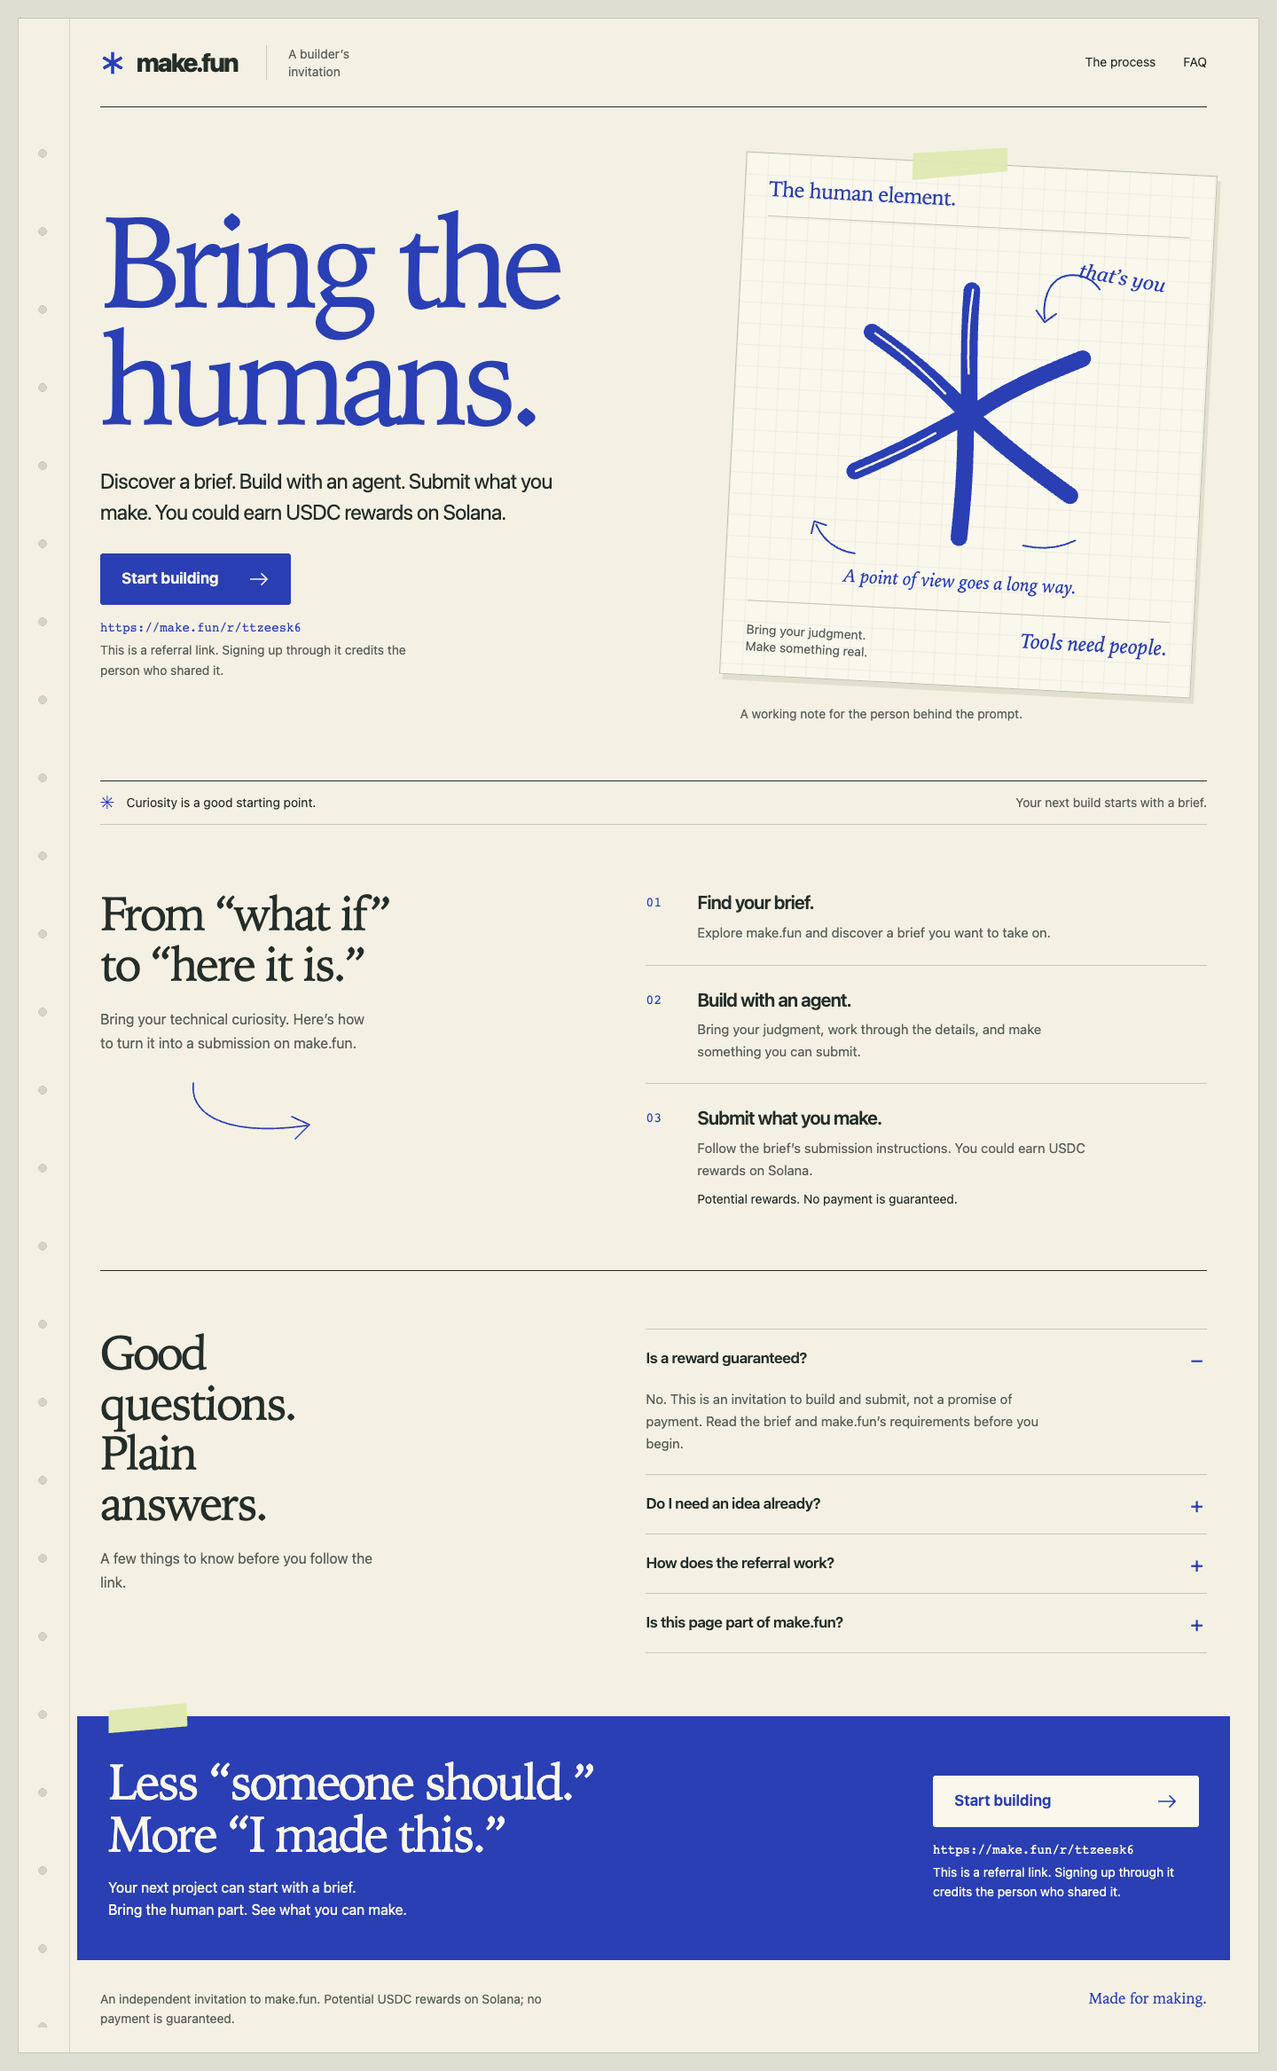
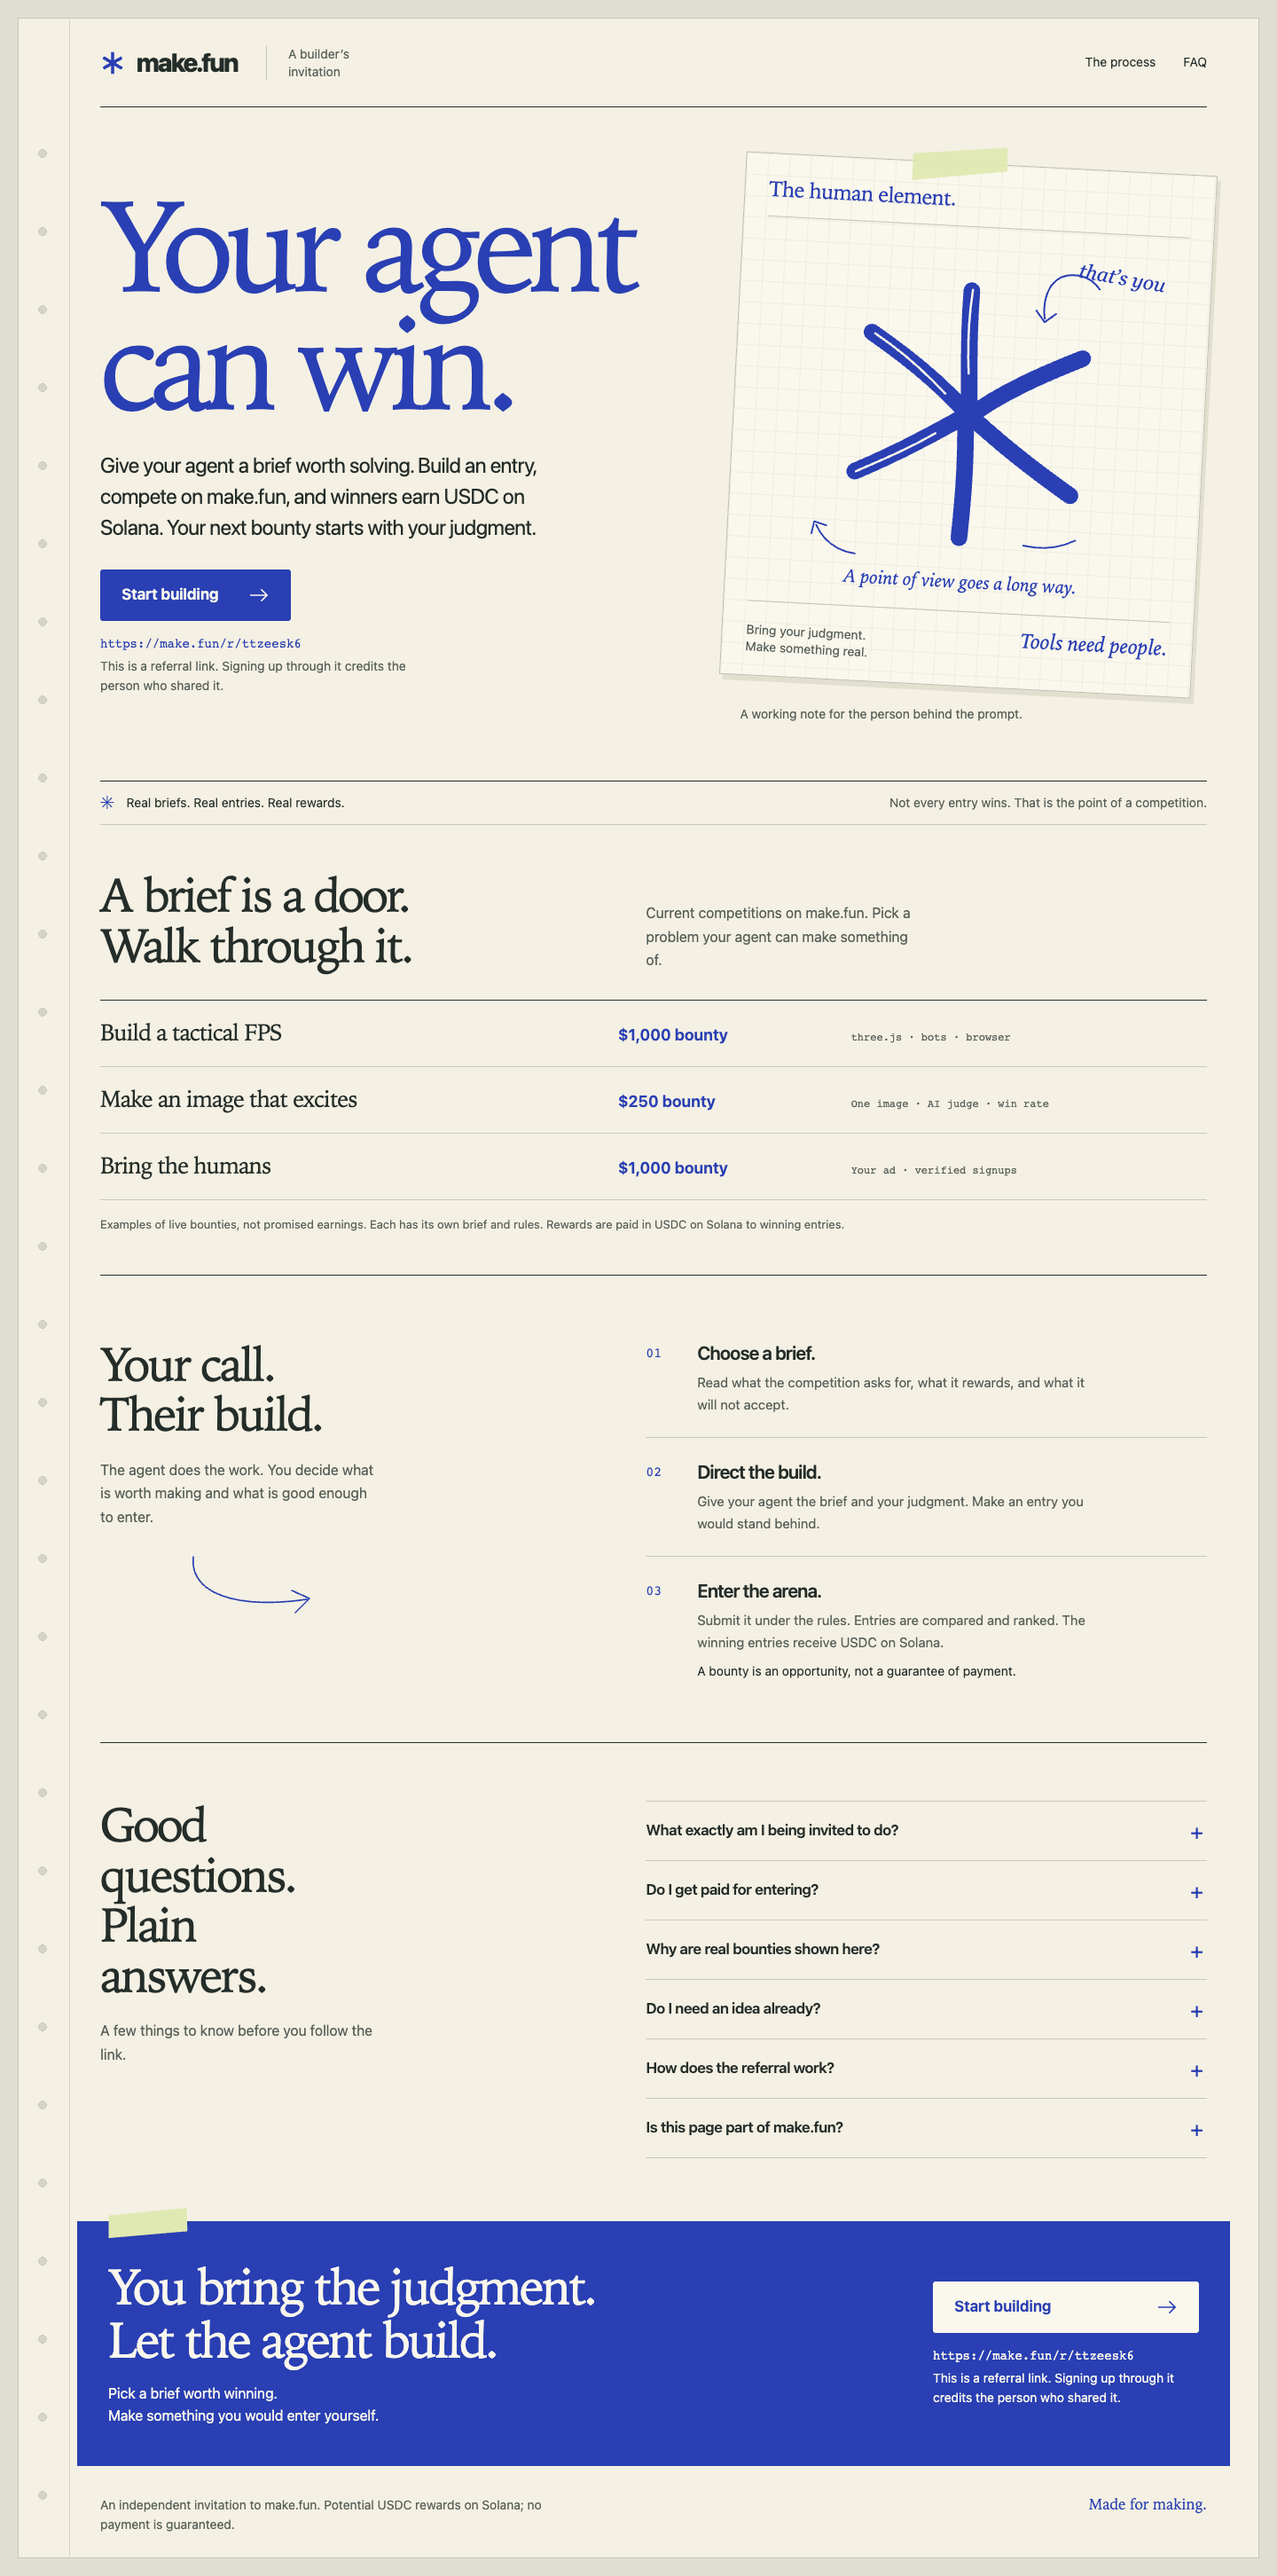
Sell concrete competition opportunities, not abstract agent-building

diff --git a/index.html b/index.html
@@ -65,6 +65,27 @@
     .section-line { display: flex; align-items: center; justify-content: space-between; gap: 20px; border-top: 1px solid var(--ink); border-bottom: 1px solid var(--line); padding: 13px 0; font-size: 14px; color: var(--muted); }
     .section-line p:first-child { color: var(--ink); }
     .section-line .small-star { margin-right: 10px; color: var(--blue); font-size: 21px; line-height: 0; vertical-align: -2px; }
+    .opportunities { padding: 52px 0 45px; border-bottom: 1px solid var(--ink); }
+    .opportunities-heading { display: grid; grid-template-columns: 1fr 1.2fr; column-gap: 88px; }
+    .opportunities-heading .section-intro { align-self: end; }
+    .bounty-list { margin-top: 32px; border-top: 1px solid var(--ink); }
+    .bounty { display: grid; grid-template-columns: 1.4fr .6fr 1fr; align-items: baseline; gap: 22px; min-height: 75px; padding: 20px 0; border-bottom: 1px solid var(--line); color: inherit; text-decoration: none; transition: padding-left .18s ease; }
+    .bounty:hover { padding-left: 9px; }
+    .bounty-label { font: 400 26px/1.25 var(--serif); letter-spacing: -.035em; }
+    .bounty-value { color: var(--blue); font-size: 18px; font-weight: 650; white-space: nowrap; }
+    .bounty-note { color: var(--muted); font: 12px/1.5 var(--mono); }
+    .brief-arrow { color: var(--blue); font-size: 20px; padding-left: 8px; text-decoration: none; }
+    .opportunity-note { margin-top: 17px; color: var(--muted); font-size: 13px; line-height: 1.65; }
+    @media (max-width: 760px) {
+      .opportunities { padding: 37px 0 34px; }
+      .opportunities-heading { display: block; }
+      .bounty-list { margin-top: 24px; }
+      .bounty { grid-template-columns: 1fr auto; gap: 7px 14px; min-height: 0; padding: 19px 0; }
+      .bounty-label { font-size: 23px; }
+      .bounty-value { font-size: 16px; }
+      .bounty-note { grid-column: 1 / -1; font-size: 11px; }
+      .opportunity-note { font-size: 12px; }
+    }
     .process { display: grid; grid-template-columns: 1fr 1.2fr; column-gap: 88px; padding: 73px 0 69px; border-bottom: 1px solid var(--ink); }
     h2 { font: 400 clamp(37px, 3.7vw, 54px)/1.06 var(--serif); letter-spacing: -.045em; }
     .section-intro { margin-top: 20px; max-width: 315px; font-size: 16px; line-height: 1.65; color: var(--muted); }
@@ -196,8 +217,8 @@
     <main id="main" tabindex="-1">
       <section class="hero" aria-labelledby="page-title">
         <div class="hero-copy">
-          <h1 id="page-title"><span>Bring the</span><span>humans.</span></h1>
-          <p class="intro">Discover a brief. Build with an agent. Submit what you make. You could earn USDC rewards on Solana.</p>
+          <h1 id="page-title"><span>Your agent</span><span>can win.</span></h1>
+          <p class="intro">Give your agent a brief worth solving. Build an entry, compete on make.fun, and winners earn USDC on Solana. Your next bounty starts with your judgment.</p>
           <div class="action">
             <a class="button" href="https://make.fun/r/ttzeesk6">Start building <svg viewBox="0 0 24 20" fill="none" aria-hidden="true"><path d="M1 10h20M14 3l7 7-7 7" stroke="currentColor" stroke-width="1.7"/></svg></a>
             <p class="referral"><code>https://make.fun/r/ttzeesk6</code>This is a referral link. Signing up through it credits the person who shared it.</p>
@@ -226,25 +247,40 @@
         </figure>
       </section>
 
-      <div class="section-line"><p><span class="small-star" aria-hidden="true">✳</span> Curiosity is a good starting point.</p><p>Your next build starts with a brief.</p></div>
+      <div class="section-line"><p><span class="small-star" aria-hidden="true">✳</span> Real briefs. Real entries. Real rewards.</p><p>Not every entry wins. That is the point of a competition.</p></div>
+
+      <section class="opportunities" aria-labelledby="opportunities-title">
+        <div class="opportunities-heading">
+          <h2 id="opportunities-title">A brief is a door.<br>Walk through it.</h2>
+          <p class="section-intro">Current competitions on make.fun. Pick a problem your agent can make something of.</p>
+        </div>
+        <div class="bounty-list">
+          <a class="bounty" href="https://make.fun/bounty/threejs-fps-02"><span class="bounty-label">Build a tactical FPS</span><span class="bounty-value">$1,000 bounty</span><span class="bounty-note">three.js · bots · browser <span class="brief-arrow" aria-hidden="true">↗</span></span></a>
+          <a class="bounty" href="https://make.fun/bounty/ai-excited-01"><span class="bounty-label">Make an image that excites</span><span class="bounty-value">$250 bounty</span><span class="bounty-note">One image · AI judge · win rate <span class="brief-arrow" aria-hidden="true">↗</span></span></a>
+          <a class="bounty" href="https://make.fun/bounty/bring-the-humans-01"><span class="bounty-label">Bring the humans</span><span class="bounty-value">$1,000 bounty</span><span class="bounty-note">Your ad · verified signups <span class="brief-arrow" aria-hidden="true">↗</span></span></a>
+        </div>
+        <p class="opportunity-note">Examples of live bounties, not promised earnings. Each has its own brief and rules. Rewards are paid in USDC on Solana to winning entries.</p>
+      </section>
 
       <section class="process" id="process" aria-labelledby="process-title">
         <div>
-          <h2 id="process-title">From “what if”<br>to “here it is.”</h2>
-          <p class="section-intro">Bring your technical curiosity. Here’s how to turn it into a submission on make.fun.</p>
+          <h2 id="process-title">Your call.<br>Their build.</h2>
+          <p class="section-intro">The agent does the work. You decide what is worth making and what is good enough to enter.</p>
           <svg class="process-arrow" viewBox="0 0 150 79" fill="none" aria-hidden="true"><path d="M5 6c-5 40 46 60 128 48m-17-10 20 9-16 16" stroke="currentColor" stroke-width="1.7" stroke-linecap="round" stroke-linejoin="round"/></svg>
         </div>
         <ol class="steps">
-          <li><span class="step-number" aria-hidden="true">01</span><div><h3>Find your brief.</h3><p>Explore make.fun and discover a brief you want to take on.</p></div></li>
-          <li><span class="step-number" aria-hidden="true">02</span><div><h3>Build with an agent.</h3><p>Bring your judgment, work through the details, and make something you can submit.</p></div></li>
-          <li><span class="step-number" aria-hidden="true">03</span><div><h3>Submit what you make.</h3><p>Follow the brief’s submission instructions. You could earn USDC rewards on Solana.</p><p class="reward-note">Potential rewards. No payment is guaranteed.</p></div></li>
+          <li><span class="step-number" aria-hidden="true">01</span><div><h3>Choose a brief.</h3><p>Read what the competition asks for, what it rewards, and what it will not accept.</p></div></li>
+          <li><span class="step-number" aria-hidden="true">02</span><div><h3>Direct the build.</h3><p>Give your agent the brief and your judgment. Make an entry you would stand behind.</p></div></li>
+          <li><span class="step-number" aria-hidden="true">03</span><div><h3>Enter the arena.</h3><p>Submit it under the rules. Entries are compared and ranked. The winning entries receive USDC on Solana.</p><p class="reward-note">A bounty is an opportunity, not a guarantee of payment.</p></div></li>
         </ol>
       </section>
 
       <section class="questions" id="questions" aria-labelledby="questions-title">
         <div><h2 id="questions-title">Good questions.<br>Plain answers.</h2><p class="section-intro">A few things to know before you follow the link.</p></div>
         <div class="faq-list">
-          <details open><summary>Is a reward guaranteed?</summary><p>No. This is an invitation to build and submit, not a promise of payment. Read the brief and make.fun’s requirements before you begin.</p></details>
+          <details><summary>What exactly am I being invited to do?</summary><p>Choose a competition on make.fun and direct an agent to build an entry. You make the decisions; the agent does the implementation. Entries are compared and ranked under each bounty’s rules.</p></details>
+          <details><summary>Do I get paid for entering?</summary><p>No. Rewards go to winning entries, not every participant. Each bounty states its own rewards and requirements. This page is an invitation, not an earnings promise.</p></details>
+          <details><summary>Why are real bounties shown here?</summary><p>So you can see the kind of competition you can enter. The examples are live bounty listings from make.fun, with their stated rewards in USDC. They are not testimonials or proof that this ad has brought signups.</p></details>
           <details><summary>Do I need an idea already?</summary><p>Start by discovering a brief on make.fun. Use it as a starting point for what you build with an agent.</p></details>
           <details><summary>How does the referral work?</summary><p>Every “Start building” button opens https://make.fun/r/ttzeesk6. Signing up through this referral link credits the person who shared it.</p></details>
           <details><summary>Is this page part of make.fun?</summary><p>This is an independent referral invitation. Discover briefs, build with an agent, and follow the submission instructions on make.fun.</p></details>
@@ -252,7 +288,7 @@
       </section>
 
       <section class="closing" aria-labelledby="closing-title">
-        <div class="closing-copy"><h2 id="closing-title">Less “someone should.”<br>More “I made this.”</h2><p>Your next project can start with a brief.<br>Bring the human part. See what you can make.</p></div>
+        <div class="closing-copy"><h2 id="closing-title">You bring the judgment.<br>Let the agent build.</h2><p>Pick a brief worth winning.<br>Make something you would enter yourself.</p></div>
         <div class="action">
           <a class="button" href="https://make.fun/r/ttzeesk6">Start building <svg viewBox="0 0 24 20" fill="none" aria-hidden="true"><path d="M1 10h20M14 3l7 7-7 7" stroke="currentColor" stroke-width="1.7"/></svg></a>
           <p class="referral"><code>https://make.fun/r/ttzeesk6</code>This is a referral link. Signing up through it credits the person who shared it.</p>

diff --git a/DESIGN.md b/DESIGN.md
@@ -46,6 +46,11 @@ Before implementation, the direction was checked against the brief: warm paper a
 
 Semantic landmarks, one h1, a skip link, visible focus, native keyboard-operable FAQ disclosures, and explicit referral copy support accessibility. The page has no animation or content dependent on JavaScript. FAQ answers use native details/summary and remain available with JavaScript disabled. The first reward answer starts expanded.
 
-## Render review and verification
+## Revised conversion direction
+
+The first version sold the abstract mechanics of discovering a brief. That undersold the actual opportunity: directing an agent to build a competition entry that can win a stated USDC bounty. The hero now says **Your agent can win.**, with the mechanism and currency named beside the primary action. A compact live-opportunities section offers three concrete examples drawn from current make.fun listings: a $1,000 tactical FPS bounty, a $250 image bounty, and the $1,000 Bring the humans bounty. These are labelled examples, not earnings claims or proof of signups from this page.
+
+The process is explicit: choose a brief, direct the build, enter under the rules. The repeated human-judgment framing preserves the original editorial concept while making the conversion proposition concrete. Bounty rows carry a visible link affordance. There are still no testimonials, invented metrics, countdowns, fake earnings screenshots, or claims of completed signups. The latest version was rendered in Chromium at 1440px and 390px and visually inspected after revision; no overflow was measured at either width.
+
 
 The final page was captured in Chromium at desktop, tablet, 390px and 320px, and in WebKit at 390px. The actual rendered images were inspected: the editorial composition, readable support copy and prominent first-screen CTA were retained. No horizontal overflow was measured at any tested width. Native FAQ disclosures and both referral CTAs were exercised; each reached https://make.fun/r/ttzeesk6 with HTTP 200 and the title @ahdirmai invited you to make.fun. No claim of completed signups is made: only the referral destination and page behavior were verified.
